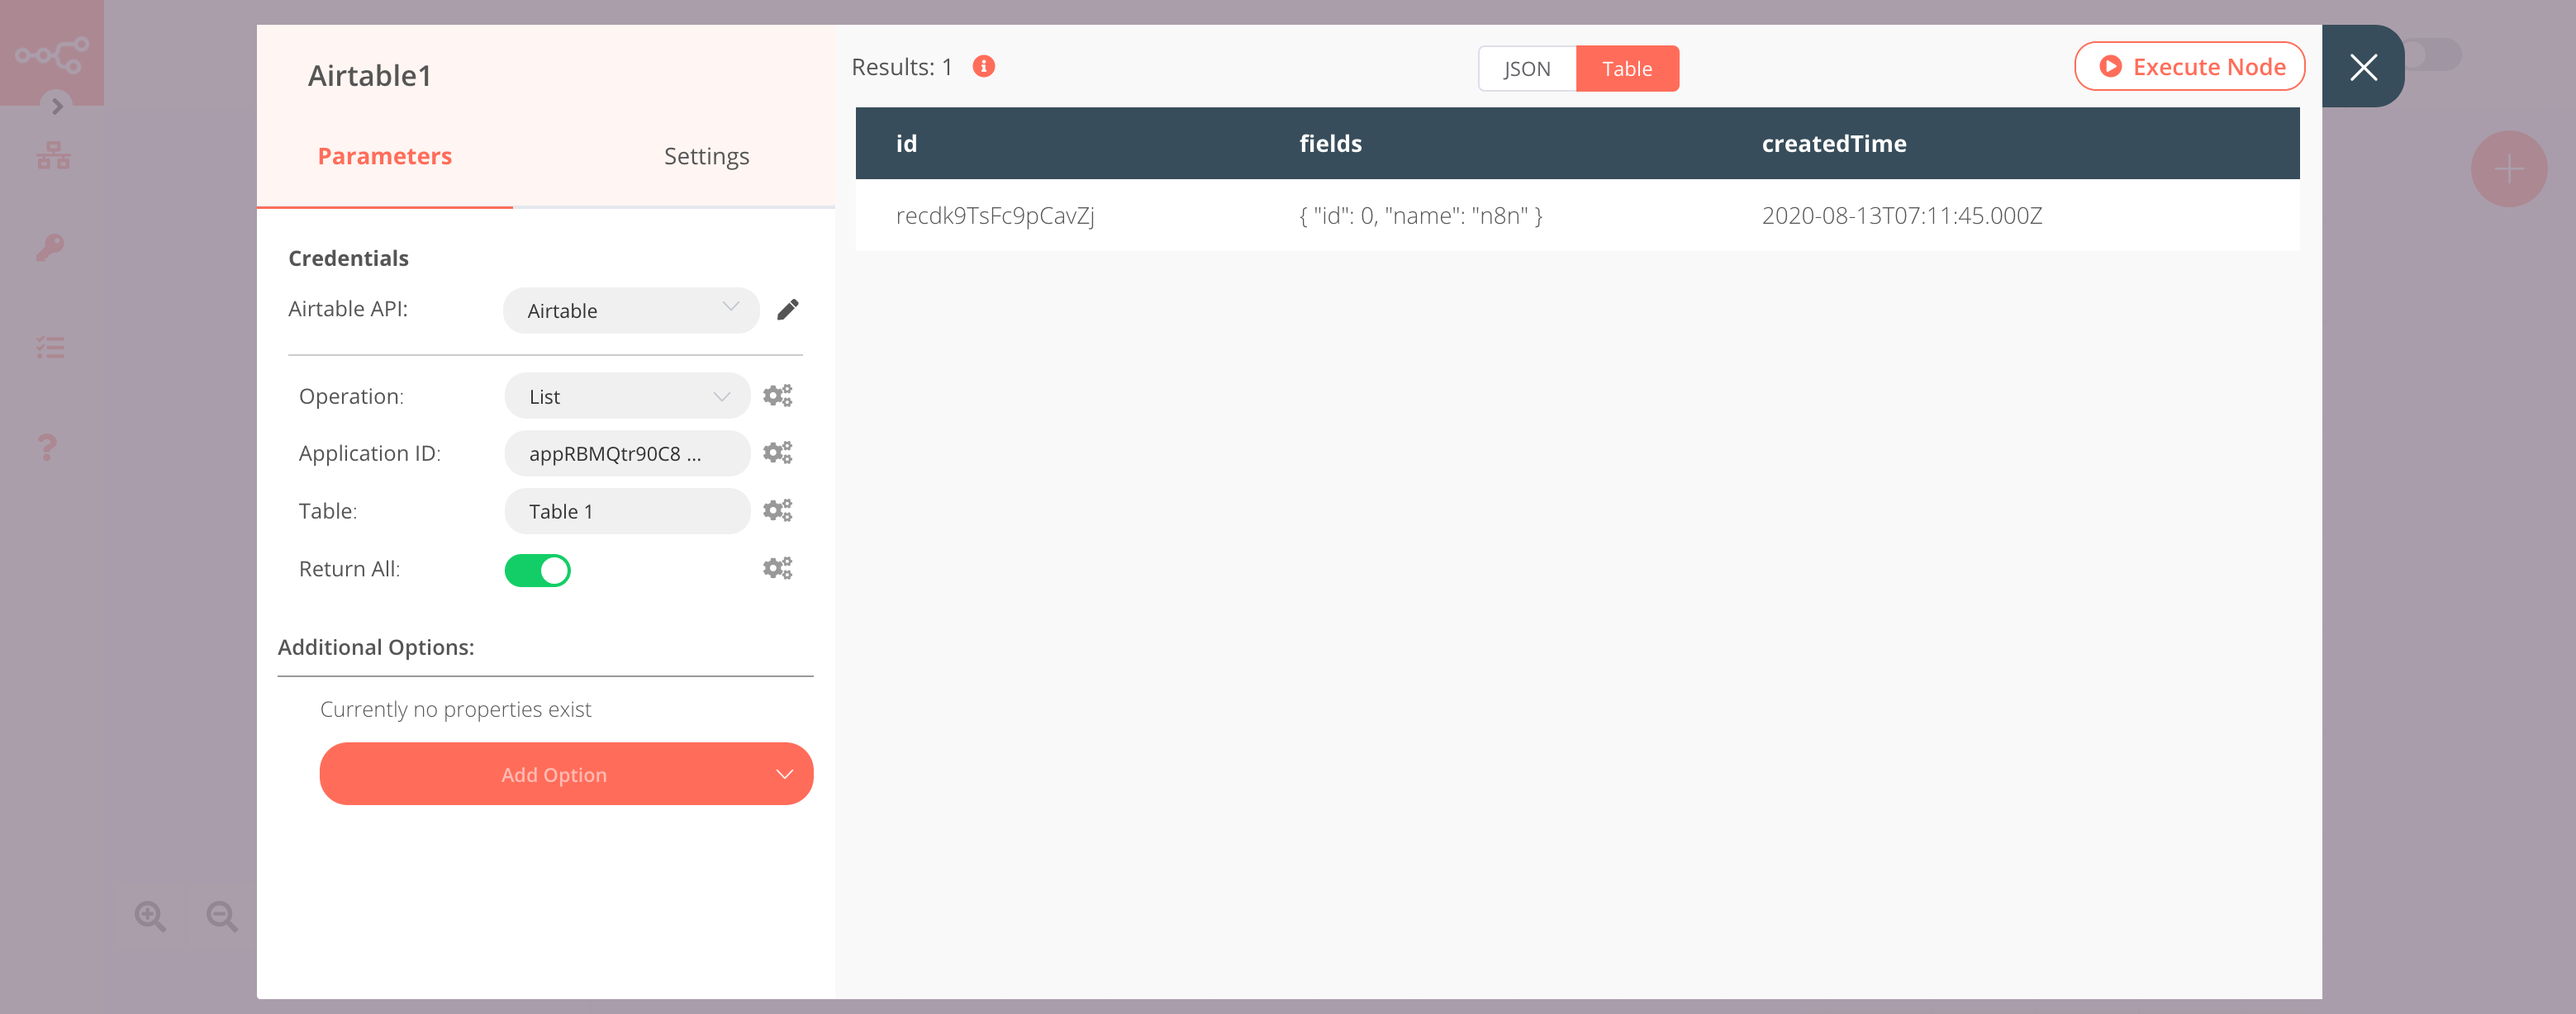
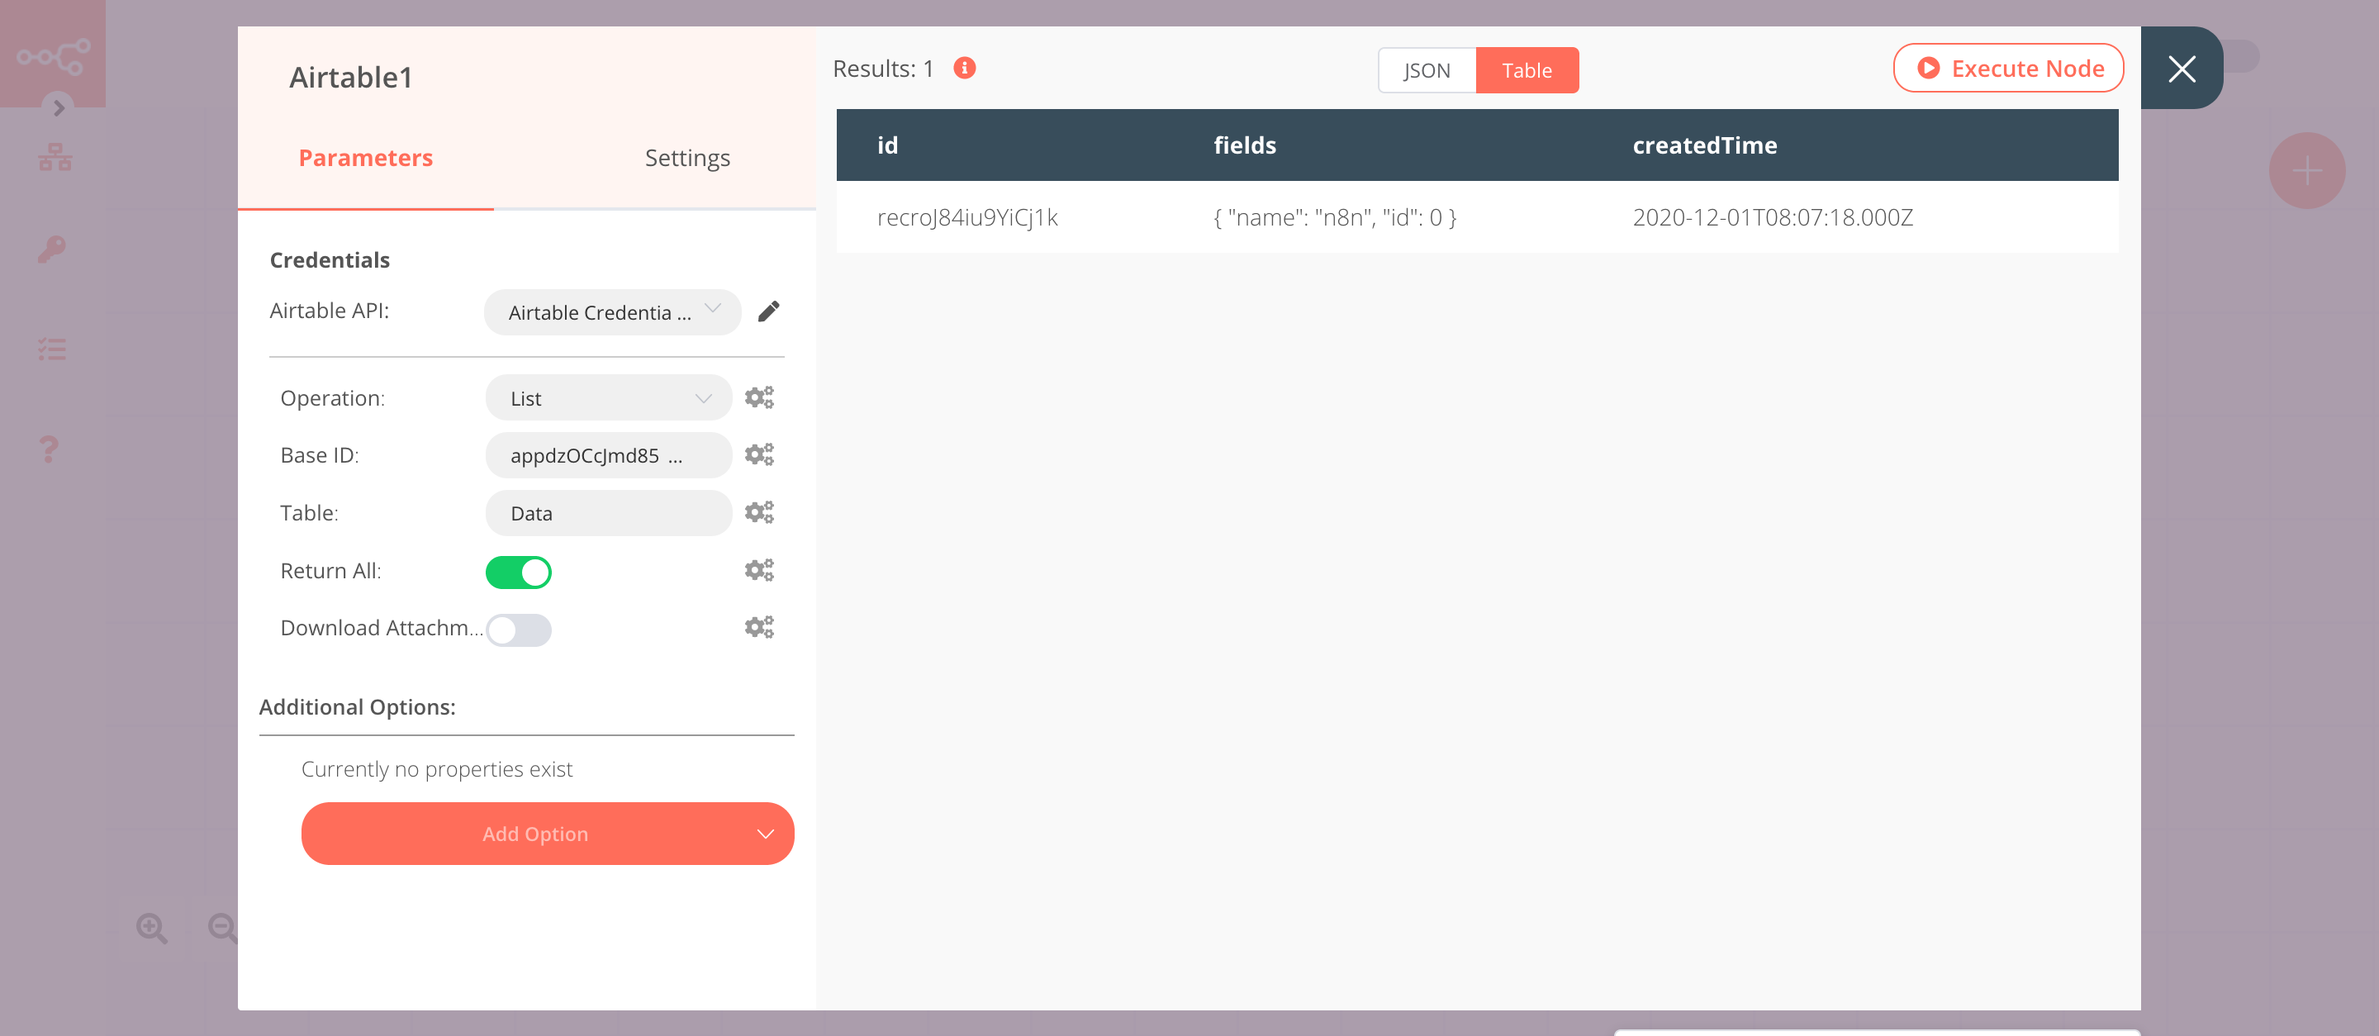
✨Add documentation for Airtable Trigger node and update field names

diff --git a/docs/nodes/nodes-library/trigger-nodes/AirtableTrigger/README.md b/docs/nodes/nodes-library/trigger-nodes/AirtableTrigger/README.md
@@ -1,0 +1,57 @@
+---
+permalink: /nodes/n8n-nodes-base.airtableTrigger
+description: Learn how to use the Airtable Trigger node in n8n
+---
+
+# Airtable Trigger
+
+[Airtable](https://airtable.com/) is a spreadsheet-database hybrid, with the features of a database but applied to a spreadsheet. The fields in an Airtable table are similar to cells in a spreadsheet, but have types such as 'checkbox', 'phone number', and 'drop-down list', and can reference file attachments like images.
+
+::: tip 🔑 Credentials
+You can find authentication information for this node [here](../../../credentials/Airtable/README.md).
+:::
+
+## Example Usage
+
+This workflow allows you to receive a Mattermost message when new data gets added to Airtable. You can also find the [workflow](https://n8n.io/workflows/799) on n8n.io. This example usage workflow would use the following nodes.
+- [Airtable Trigger]()
+- [Mattermost](../../nodes/Mattermost/README.md)
+
+The final workflow should look like the following image.
+
+![A workflow with the Airtable Trigger node](./workflow.png)
+
+### 1. Airtable Trigger node
+
+The Airtable Trigger node will trigger the workflow when new data gets added to Airtable.
+
+1. First of all, you'll have to enter credentials for the Airtable Trigger node. You can find out how to do that [here](../../../credentials/Airtable/README.md).
+2. Click on ***Add Poll Time*** and select 'Every Minute' from the ***Mode*** dropdown list. This will check Airtable every minute for new data entries.
+3. Enter the Base ID in the ***Base ID*** field. For obtaining the Base ID, head over to their [API page](https://airtable.com/api) and select the correct base. You’ll find the Base ID there.
+4. Enter the table name in the ***Table*** field.
+5. Enter a trigger field name in the ***Trigger Field*** field. If you don't have a 'Created Time' or 'Last modified time' field in your table, please create one.
+6. Click on ***Execute Node*** to run the node.
+
+In the screenshot below, you will notice that the node returns the new data from Airtable. This output gets passed on to the next node in the workflow.
+
+![Using the Airtable Trigger node to trigger the workflow](./AirtableTrigger_node.png)
+
+### 2. Mattermost node (post: message)
+
+This node will send a message of the new data in the channel `Information Updated` in Mattermost. If you have a different channel, use that instead.
+
+1. First of all, you'll have to enter credentials for the Mattermost node. You can find out how to do that [here](../../../credentials/Mattermost/README.md).
+::: v-pre
+2. Select a channel from the ***Channel ID*** dropdown list.
+3. Click on the gears icon next to the ***Message*** field and click on ***Add Expression***.
+4. Enter the following message in the ***Expression*** field:
+```
+New Data was added to Airtable.
+ID:{{$node["Airtable Trigger"].json["fields"]["id"]}}
+Name: {{$node["Airtable Trigger"].json["fields"]["name"]}}
+```
+5. Click on ***Execute Node*** to run the node.
+:::
+In the screenshot below, you will notice that the node sends a message in Mattermost about the new data that got added to Airtable.
+
+![Using the Mattermost node to send a message of the new data](./Mattermost_node.png)

diff --git a/docs/nodes/nodes-library/nodes/Airtable/README.md b/docs/nodes/nodes-library/nodes/Airtable/README.md
@@ -52,23 +52,21 @@ The start node exists by default when you create a new workflow.
 
 1. First of all, you'll have to enter credentials for the Airtable node. You can find out how to do that [here](../../../credentials/Airtable/README.md).
 2. Select the 'Append' option from the ***Operation*** dropdown list.
-3. Enter the application ID in the ***Application ID*** field. For obtaining the Application ID, head over to their [API page](https://airtable.com/api) and select the correct base. You’ll find the Application ID there.
+3. Enter the Base ID in the ***Base ID*** field. For obtaining the Base ID, head over to their [API page](https://airtable.com/api) and select the correct base. You’ll find the Base ID there.
 4. Enter the name of the table in the ***Table*** field.
 5. Click on ***Execute Node*** to run the workflow.
 
 ![Using the Airtable node to insert data into an Airtable table](./Airtable_node.png)
 
-
 ### 4. Airtable1 node (List)
 
 1. Select the credentials that you entered in the previous node.
 2. Select the 'List' option from the ***Operation*** dropdown list.
-3. Enter the application ID used in the previous node in the ***Application ID*** field.
+3. Enter the base ID used in the previous node in the ***Base ID*** field.
 4. Enter the name of the table used in the previous node in the ***Table*** field.
 5. Click on ***Execute Node*** to run the workflow.
 
 ![Using the Airtable node to read data from an Airtable table](./Airtable1_node.png)
-
 
 ## Further Reading
 

diff --git a/docs/nodes/nodes-library/trigger-nodes/MailerLiteTrigger/README.md b/docs/nodes/nodes-library/trigger-nodes/MailerLiteTrigger/README.md
@@ -73,8 +73,8 @@ This node will store the data coming from the previous node in a table in Airtab
 
 1. First of all, you'll have to enter credentials for the Airtable node. You can find out how to do that [here](../../../credentials/Airtable/README.md).
 2. Select 'Append' from the ***Operation*** dropdown list.
-3. Enter the application ID in the ***Application ID*** field. For obtaining the Application ID, head over to their [API page](https://airtable.com/api) and select the correct base. You’ll find the Application ID under the Introduction section.
-4. In n8n, paste the ID of the base in the ***Application ID*** field.
+3. Enter the base ID in the ***Base ID*** field. For obtaining the Base ID, head over to their [API page](https://airtable.com/api) and select the correct base. You’ll find the Base ID under the Introduction section.
+4. In n8n, paste the ID of the base in the ***Base ID*** field.
 5. Enter the table name in the ***Table*** name field.
 6. Click on ***Execute Node*** to run the node.
 

diff --git a/docs/nodes/credentials/Airtable/README.md b/docs/nodes/credentials/Airtable/README.md
@@ -7,7 +7,7 @@ description: Learn to configure credentials for the Airtable node in n8n
 
 You can use these credentials to authenticate the following nodes with Airtable.
 - [Airtable](../../nodes-library/nodes/Airtable/README.md)
-
+- [Airtable Trigger](../../nodes-library/trigger-nodes/AirtableTrigger/README.md)
 
 ## Prerequisites
 
